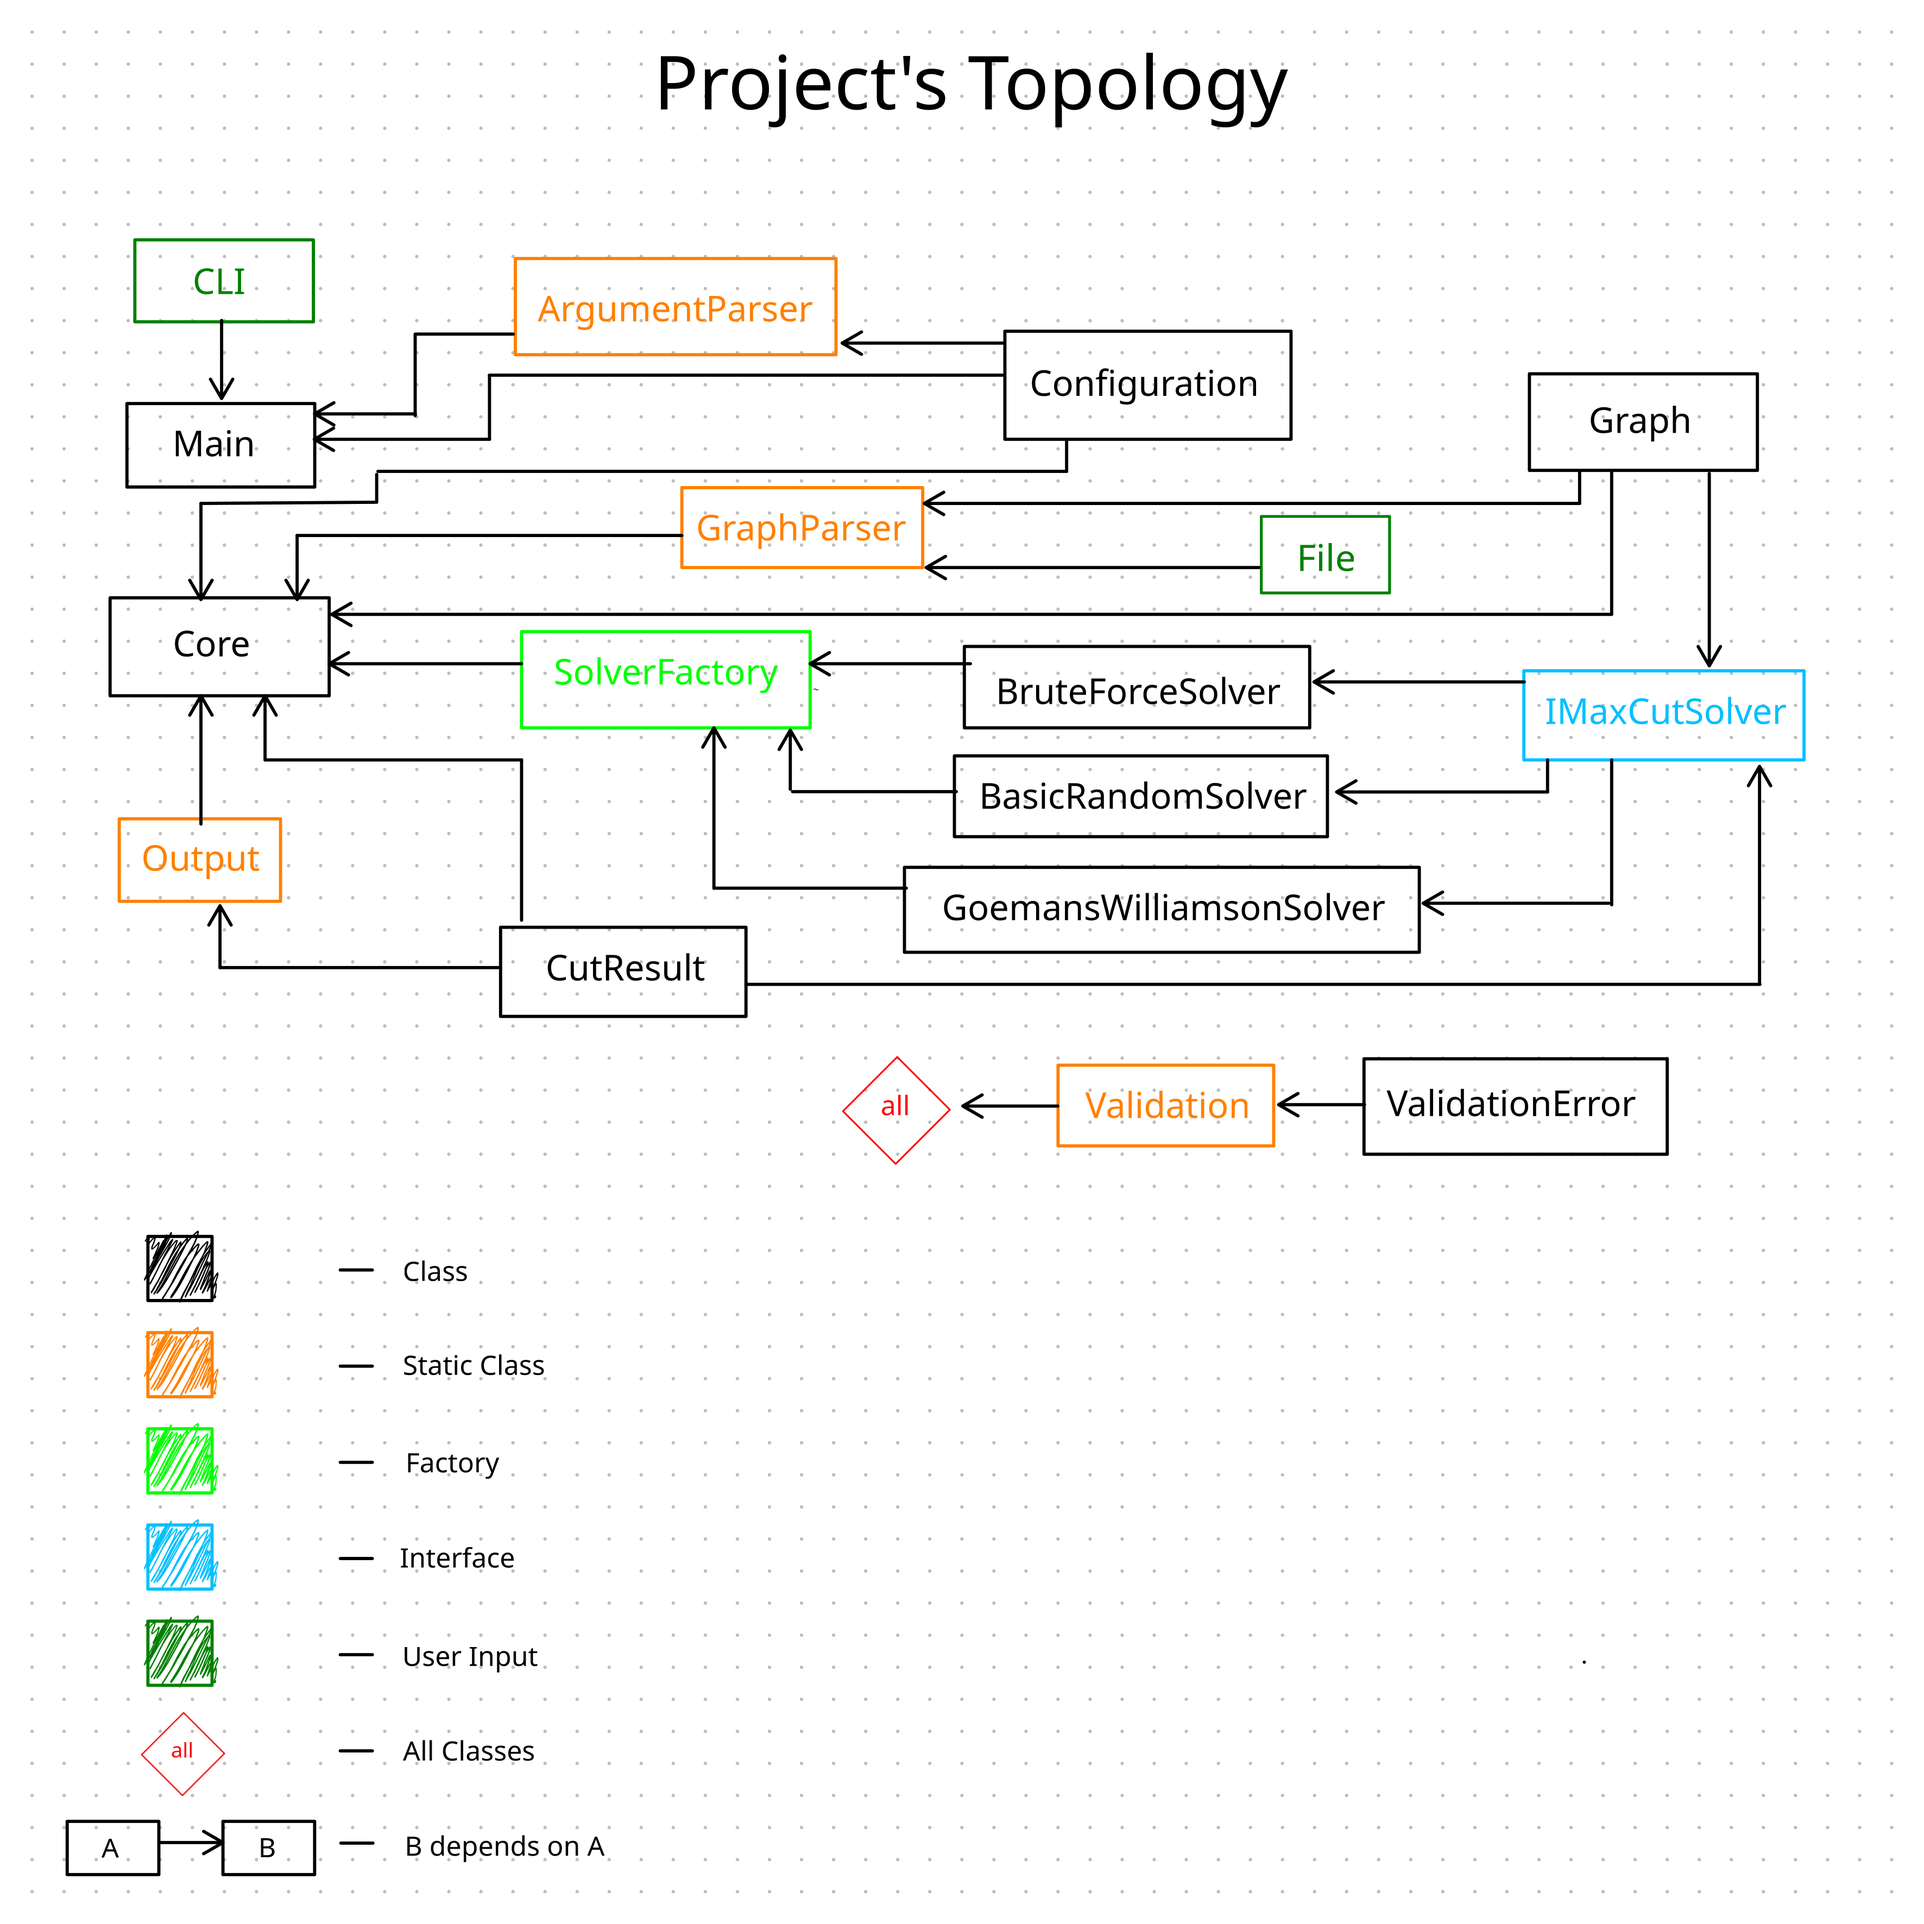
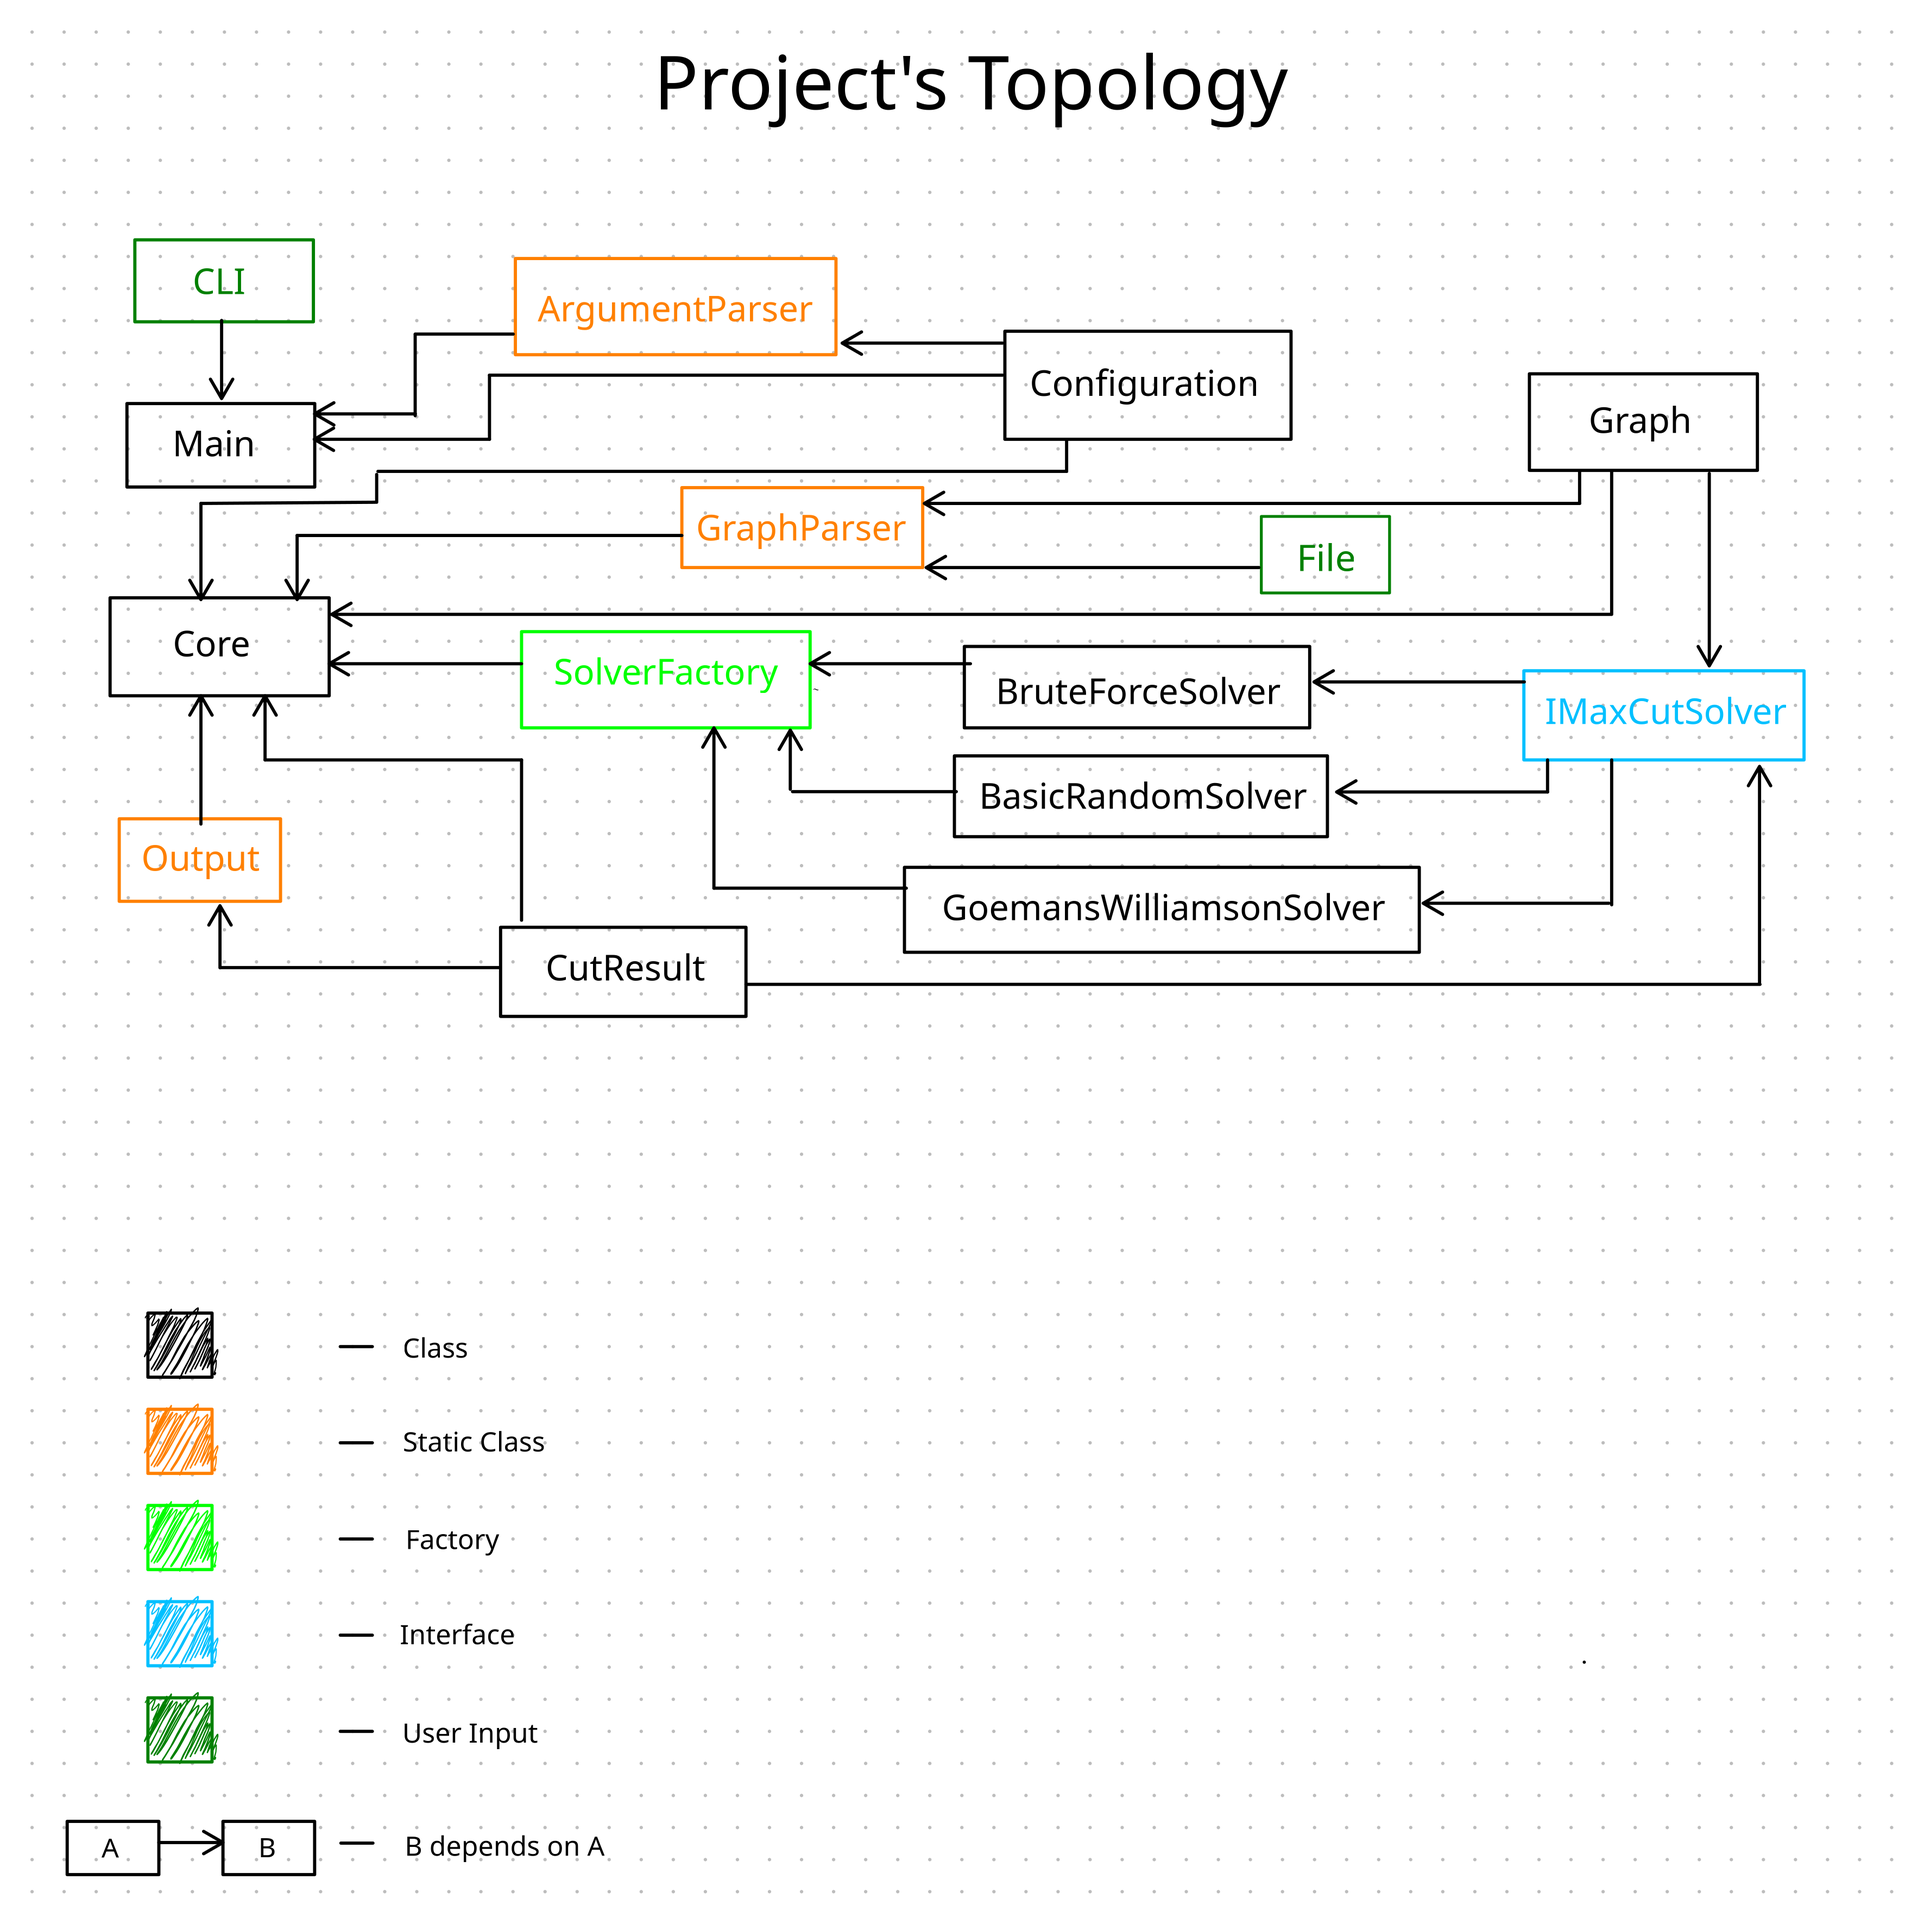
Deprecate Validation (#2)
#### Description
Removed the `Validation` directory and updated the architecture topology diagram to reflect its removal.

diff --git a/Model/Graph.cpp b/Model/Graph.cpp
@@ -7,4 +7,16 @@ Graph::Graph(int numberOfEdges, int numberOfVertices, std::vector<std::vector<do
     : m_numberOfEdges(numberOfEdges), m_numberOfVertices(numberOfVertices), m_connections(std::move(connections))
 {
 }
+int Graph::NumberOfEdges() const
+{
+    return m_numberOfEdges;
+}
+int Graph::NumberOfVertices() const
+{
+    return m_numberOfVertices;
+}
+std::vector<std::vector<double>> Graph::Connections() const
+{
+    return m_connections;
+}
 } // namespace MaxCut

diff --git a/IO/ArgumentParser.cpp b/IO/ArgumentParser.cpp
@@ -9,9 +9,9 @@ namespace MaxCut
 std::vector<std::string> ArgumentParser::ConvertArgs(int argc, char **argv)
 {
     std::vector<std::string> returnValue;
-    returnValue.reserve(argc - 1);
+    returnValue.reserve(argc);
 
-    for (int i = 1; i < argc; i++)
+    for (int i = 0; i < argc; i++)
     {
         returnValue.emplace_back(argv[i]);
     }

diff --git a/Model/Graph.hpp b/Model/Graph.hpp
@@ -14,5 +14,8 @@ class Graph
   public:
     Graph() = default;
     Graph(int numberOfEdges, int numberOfVertices, std::vector<std::vector<double>> &connections);
+    int NumberOfEdges() const;
+    int NumberOfVertices() const;
+    std::vector<std::vector<double>> Connections() const;
 };
 } // namespace MaxCut

diff --git a/Main.cpp b/Main.cpp
@@ -4,7 +4,7 @@
 
 int main(int argc, char **argv)
 {
-    const MaxCut::Configuration config = MaxCut::ArgumentParser::Parse(argc, argv);
+    MaxCut::Configuration config = MaxCut::ArgumentParser::Parse(argc, argv);
     const MaxCut::Core core(config);
     return core.Run();
 }

diff --git a/Core/Core.cpp b/Core/Core.cpp
@@ -11,7 +11,7 @@
 
 namespace MaxCut
 {
-Core::Core(Configuration config) : m_config(std::move(config))
+Core::Core(Configuration &config) : m_config(std::move(config))
 {
 }
 

diff --git a/Core/Core.hpp b/Core/Core.hpp
@@ -8,7 +8,7 @@ namespace MaxCut
 class Core
 {
   public:
-    Core(Configuration config);
+    Core(Configuration &config);
 
     int Run() const;
 
